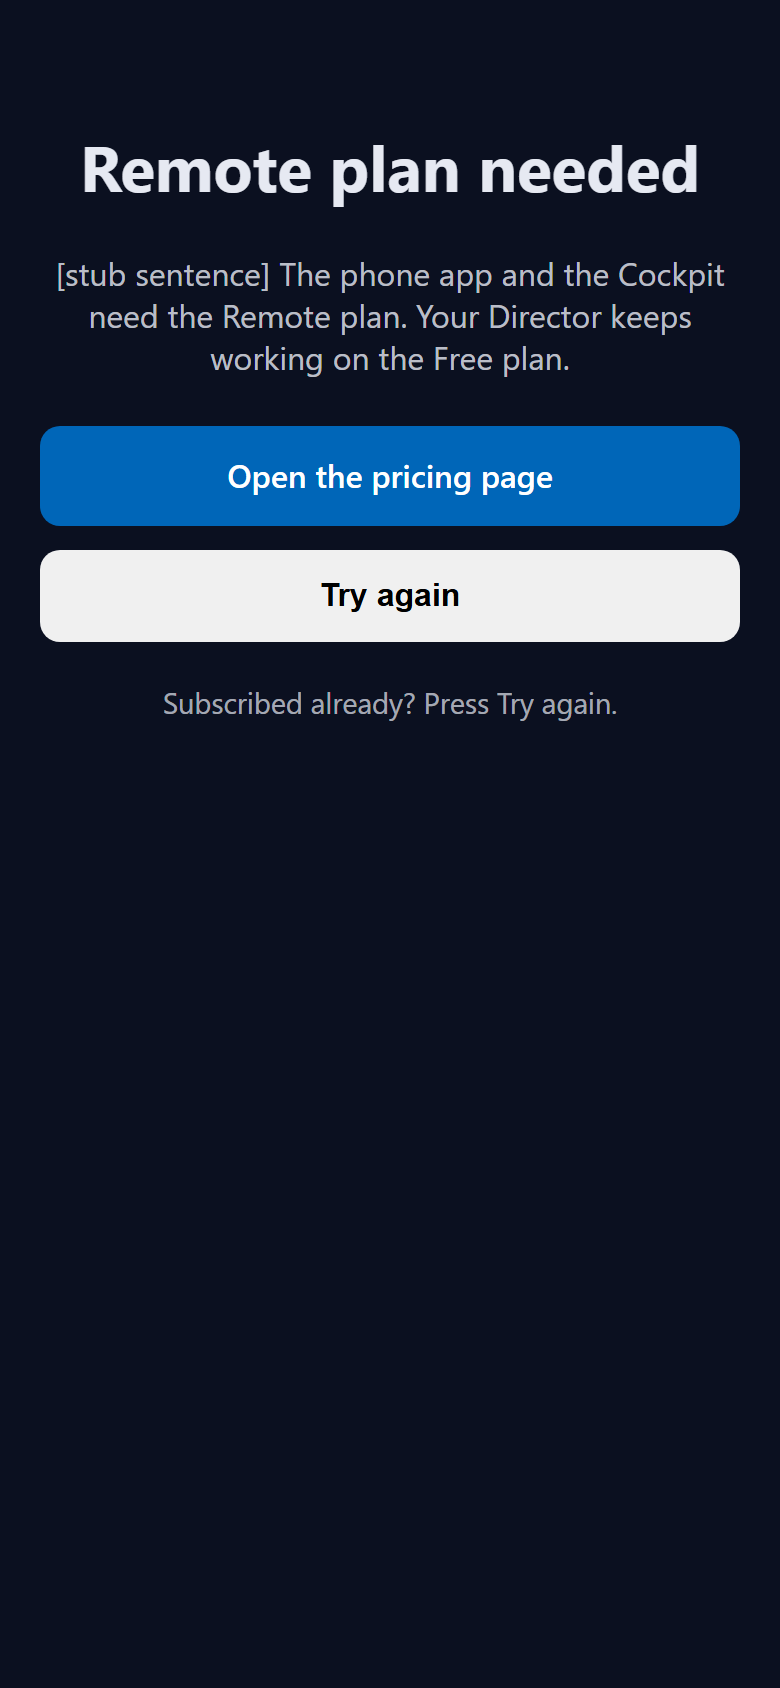
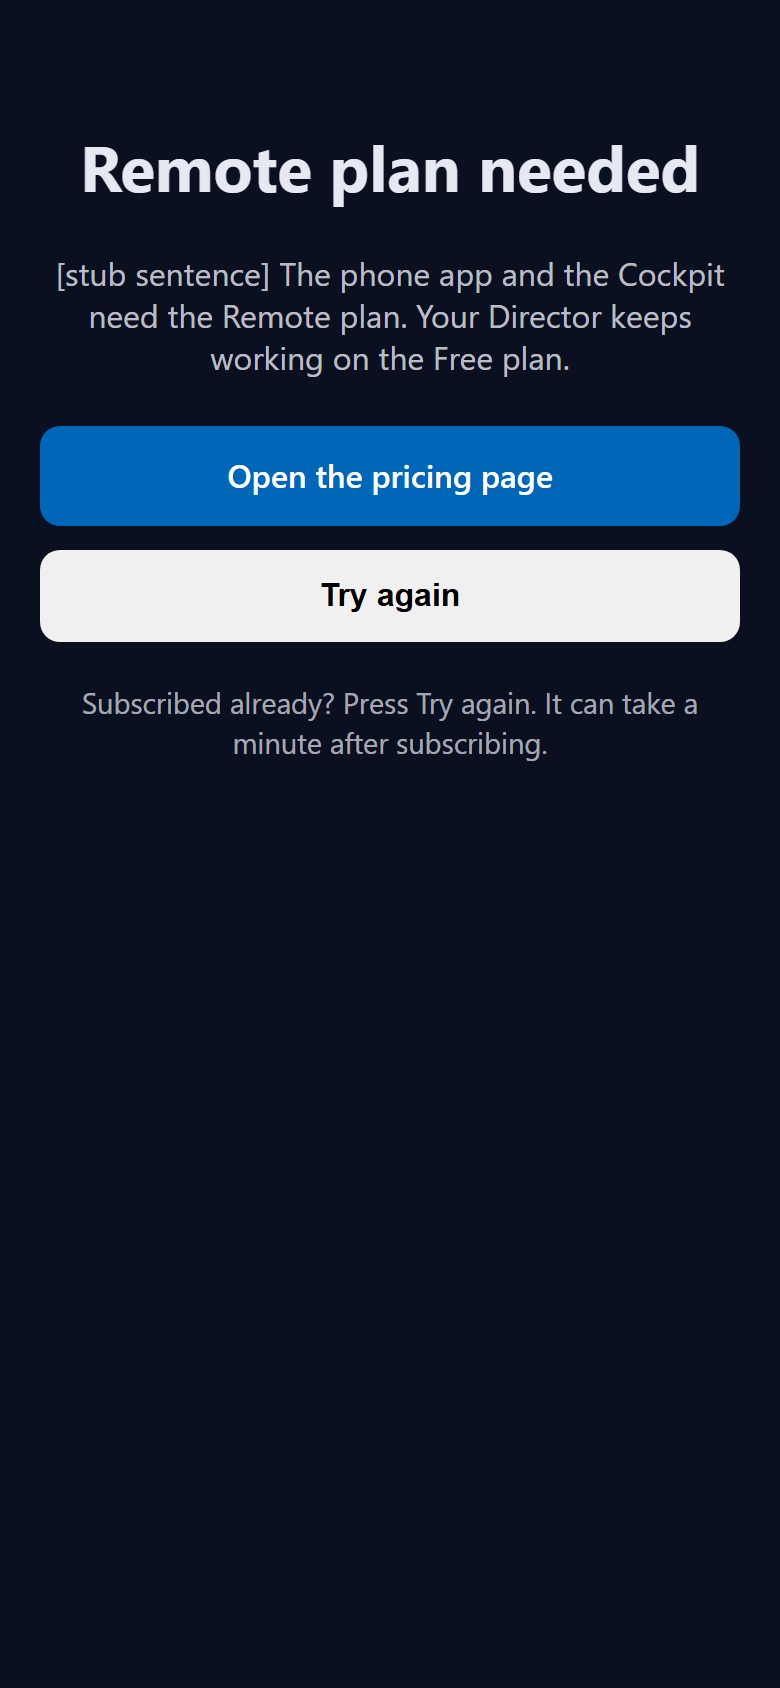
Pricing change phase 3: the Remote plan notice offers another account and says a new subscription can take a minute
Answers to the review of pull request 3953, notes 1 and 2. In a signed-in session the notice replaces
the whole app, the account switcher included, so it now offers Sign in with another account, which
opens the shell's own sign-in screen. The hint now says it can take a minute after subscribing.

Changed region(s): [[0.0923, 0.4005, 0.8923, 0.4621]]

diff --git a/packages/client-core/src/plan/RemotePlanNotice.tsx b/packages/client-core/src/plan/RemotePlanNotice.tsx
@@ -8,6 +8,7 @@
 // plans. It is laid out like the shared Sign in and DeviceCallback screens it sits beside, so it needs
 // no stylesheet from either shell.
 import { useSyncExternalStore, type ReactNode } from "react";
+import { enrollmentProfile } from "../auth/enrollRequest";
 import {
   clearRemotePlanRequired,
   currentRemotePlanRequired,
@@ -29,9 +30,16 @@ interface RemotePlanNoticeProps {
   info: RemotePlanRequired;
   /** What "try again" does where this notice is shown: sign in again, or load the app again. */
   onTryAgain: () => void;
+  /**
+   * Leave this account for another one, where that is possible. The notice replaces the whole app in a
+   * signed-in session, the account switcher included, so without this a browser holding a second
+   * account that does have the plan has no visible way to reach it. Absent at sign-in, where "try
+   * again" already is the sign-in screen.
+   */
+  onUseAnotherAccount?: () => void;
 }
 
-export function RemotePlanNotice({ info, onTryAgain }: RemotePlanNoticeProps) {
+export function RemotePlanNotice({ info, onTryAgain, onUseAnotherAccount }: RemotePlanNoticeProps) {
   return (
     <div style={container} role="alert" data-testid="remote-plan-notice">
       <h1>Remote plan needed</h1>
@@ -50,9 +58,19 @@ export function RemotePlanNotice({ info, onTryAgain }: RemotePlanNoticeProps) {
       <button type="button" onClick={onTryAgain} style={button} data-testid="remote-plan-try-again">
         Try again
       </button>
-      <p style={{ opacity: 0.7, marginTop: "1.25rem", fontSize: "0.9rem" }}>
-        Subscribed already? Press Try again.
+      <p style={{ opacity: 0.7, marginTop: "1.25rem", fontSize: "0.9rem" }} data-testid="remote-plan-hint">
+        Subscribed already? Press Try again. It can take a minute after subscribing.
       </p>
+      {onUseAnotherAccount !== undefined && (
+        <button
+          type="button"
+          onClick={onUseAnotherAccount}
+          data-testid="remote-plan-another-account"
+          style={{ background: "none", border: "none", padding: "0.5rem", marginTop: "0.5rem", font: "inherit", fontSize: "0.9rem", color: "inherit", textDecoration: "underline", cursor: "pointer" }}
+        >
+          Sign in with another account
+        </button>
+      )}
     </div>
   );
 }
@@ -61,13 +79,29 @@ function reloadTheApp(): void {
   window.location.reload();
 }
 
+// A HARD navigation to the shell's own sign-in screen, never a router push: the gate has unmounted the
+// router, and loading the page afresh is also what forgets the refusal. The sign-in screen makes no
+// Gateway call of its own, and an account signed in there becomes the active one.
+function openSignIn(): void {
+  const profile = enrollmentProfile();
+  window.location.assign(`${profile.basename}${profile.signInPath}`);
+}
+
 /**
  * Wraps a shell's whole app. While the Gateway's refusal is in effect it shows the notice INSTEAD of
  * the app, so the screens that poll are unmounted: nothing keeps asking, nothing shows a raw error,
  * and nothing loops. "Try again" forgets the refusal and loads the app afresh; if the account still
  * has no plan, the first request is refused again and the notice returns.
  */
-export function RemotePlanGate({ children, reload = reloadTheApp }: { children: ReactNode; reload?: () => void }) {
+export function RemotePlanGate({
+  children,
+  reload = reloadTheApp,
+  useAnotherAccount = openSignIn,
+}: {
+  children: ReactNode;
+  reload?: () => void;
+  useAnotherAccount?: () => void;
+}) {
   const info = useSyncExternalStore(subscribeRemotePlanRequired, currentRemotePlanRequired);
   if (info === null) return <>{children}</>;
   return (
@@ -78,6 +112,7 @@ export function RemotePlanGate({ children, reload = reloadTheApp }: { children: 
         clearRemotePlanRequired();
         reload();
       }}
+      onUseAnotherAccount={useAnotherAccount}
     />
   );
 }

diff --git a/packages/client-core/src/plan/RemotePlanNotice.test.tsx b/packages/client-core/src/plan/RemotePlanNotice.test.tsx
@@ -28,6 +28,15 @@ describe("RemotePlanNotice", () => {
     expect(tryAgain).toHaveBeenCalledTimes(1);
   });
 
+  it("says a new subscription can take a minute, and offers another account only where one can be used", () => {
+    // The Gateway re-reads a plan about once a minute, so "Try again" straight after paying can be refused.
+    render(<RemotePlanNotice info={{ message: SENTENCE, subscribeUrl: PRICING }} onTryAgain={() => {}} />);
+
+    expect(screen.getByTestId("remote-plan-hint").textContent).toContain("It can take a minute after subscribing.");
+    // At sign-in no such action is passed: "Try again" there already is the sign-in screen.
+    expect(screen.queryByTestId("remote-plan-another-account")).toBeNull();
+  });
+
   it("offers no link when the Gateway named no address, rather than inventing one", () => {
     render(<RemotePlanNotice info={{ message: SENTENCE, subscribeUrl: null }} onTryAgain={() => {}} />);
 
@@ -38,6 +47,19 @@ describe("RemotePlanNotice", () => {
 });
 
 describe("RemotePlanGate", () => {
+  it("offers a way to another account, because the notice has replaced the account switcher too", () => {
+    // A browser holding a Free account and a paying one: "Try again" reloads into the same Free account.
+    const useAnotherAccount = vi.fn();
+    const reload = vi.fn();
+    render(<RemotePlanGate reload={reload} useAnotherAccount={useAnotherAccount}><div data-testid="the-app">sessions</div></RemotePlanGate>);
+    act(() => reportRemotePlanRequired({ message: SENTENCE, subscribeUrl: PRICING }));
+
+    fireEvent.click(screen.getByRole("button", { name: "Sign in with another account" }));
+
+    expect(useAnotherAccount).toHaveBeenCalledTimes(1);
+    expect(reload).not.toHaveBeenCalled();
+  });
+
   it("shows the app until the refusal arrives, then the notice INSTEAD of the app", () => {
     render(<RemotePlanGate><div data-testid="the-app">sessions</div></RemotePlanGate>);
     expect(screen.getByTestId("the-app")).toBeTruthy();
